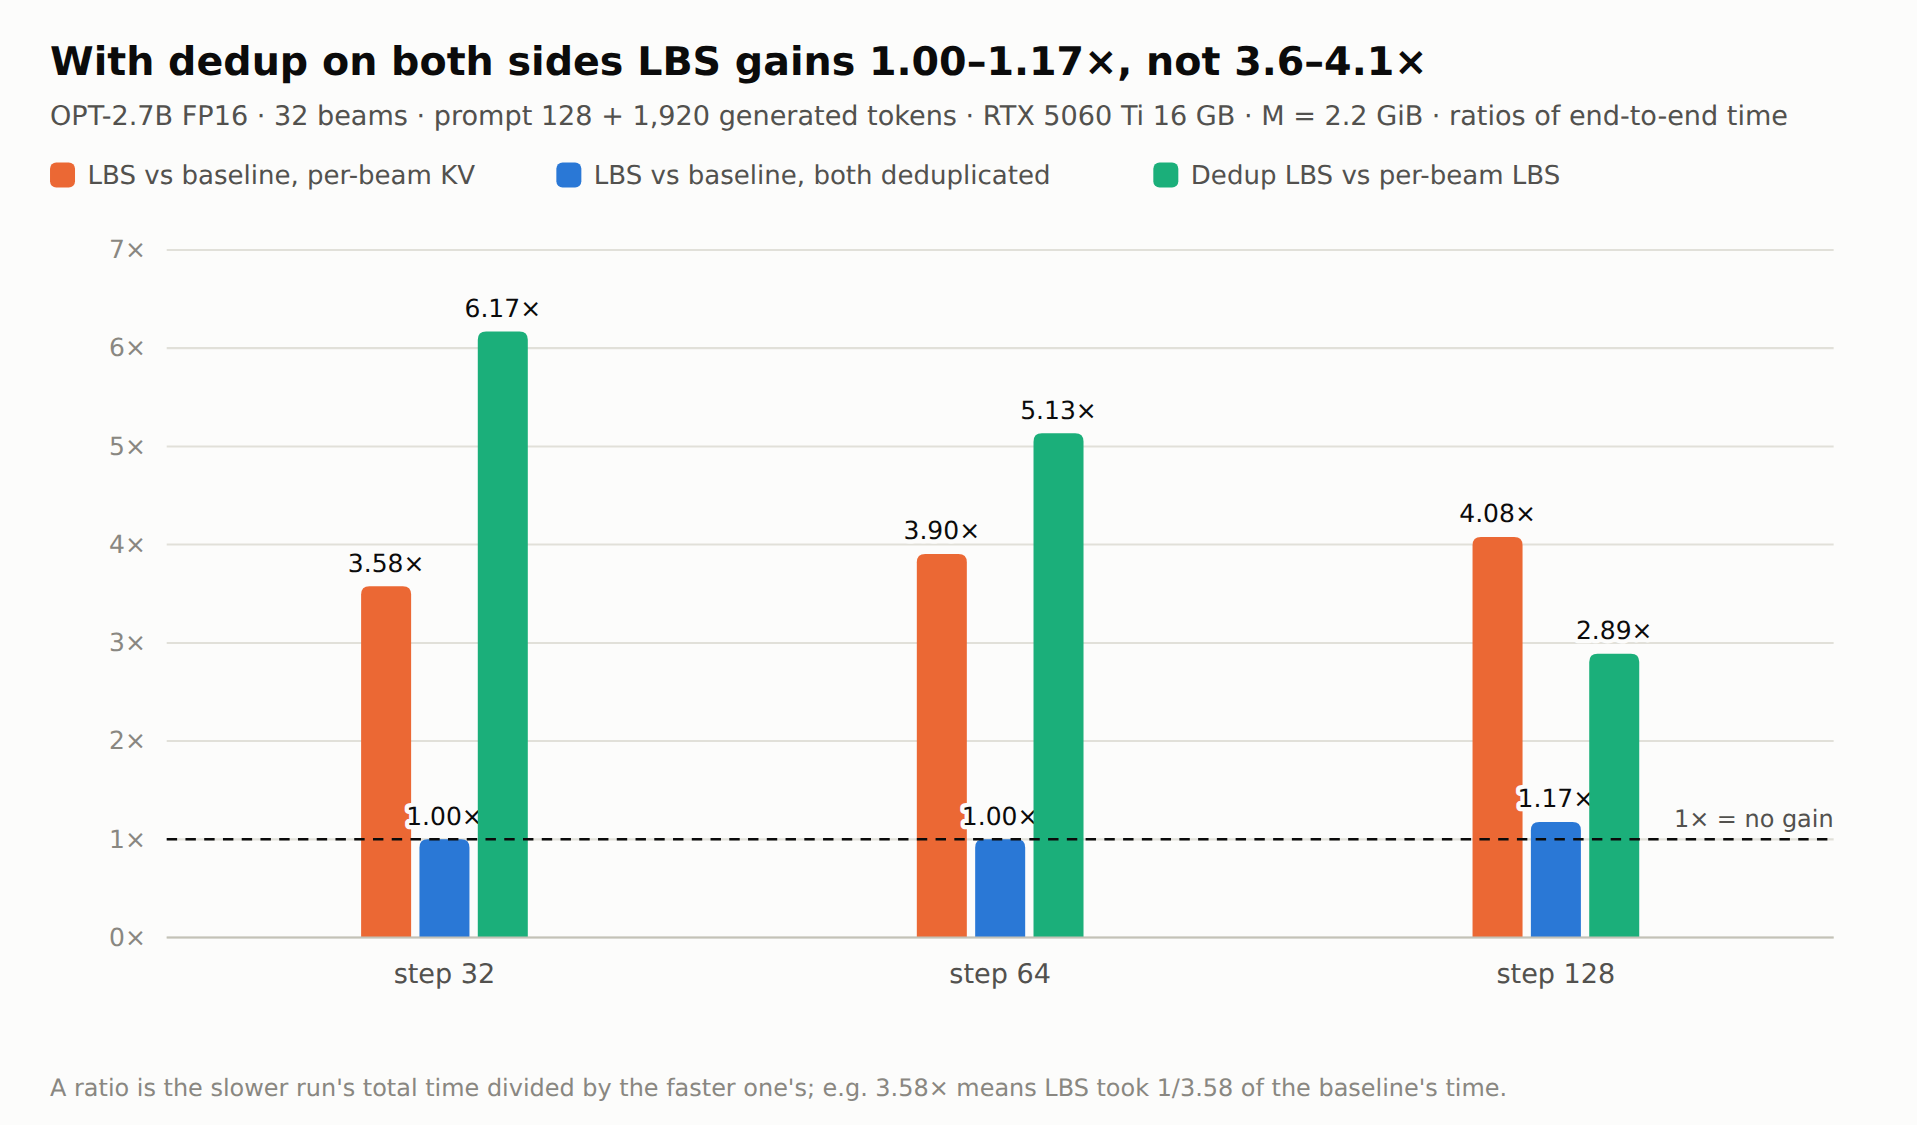
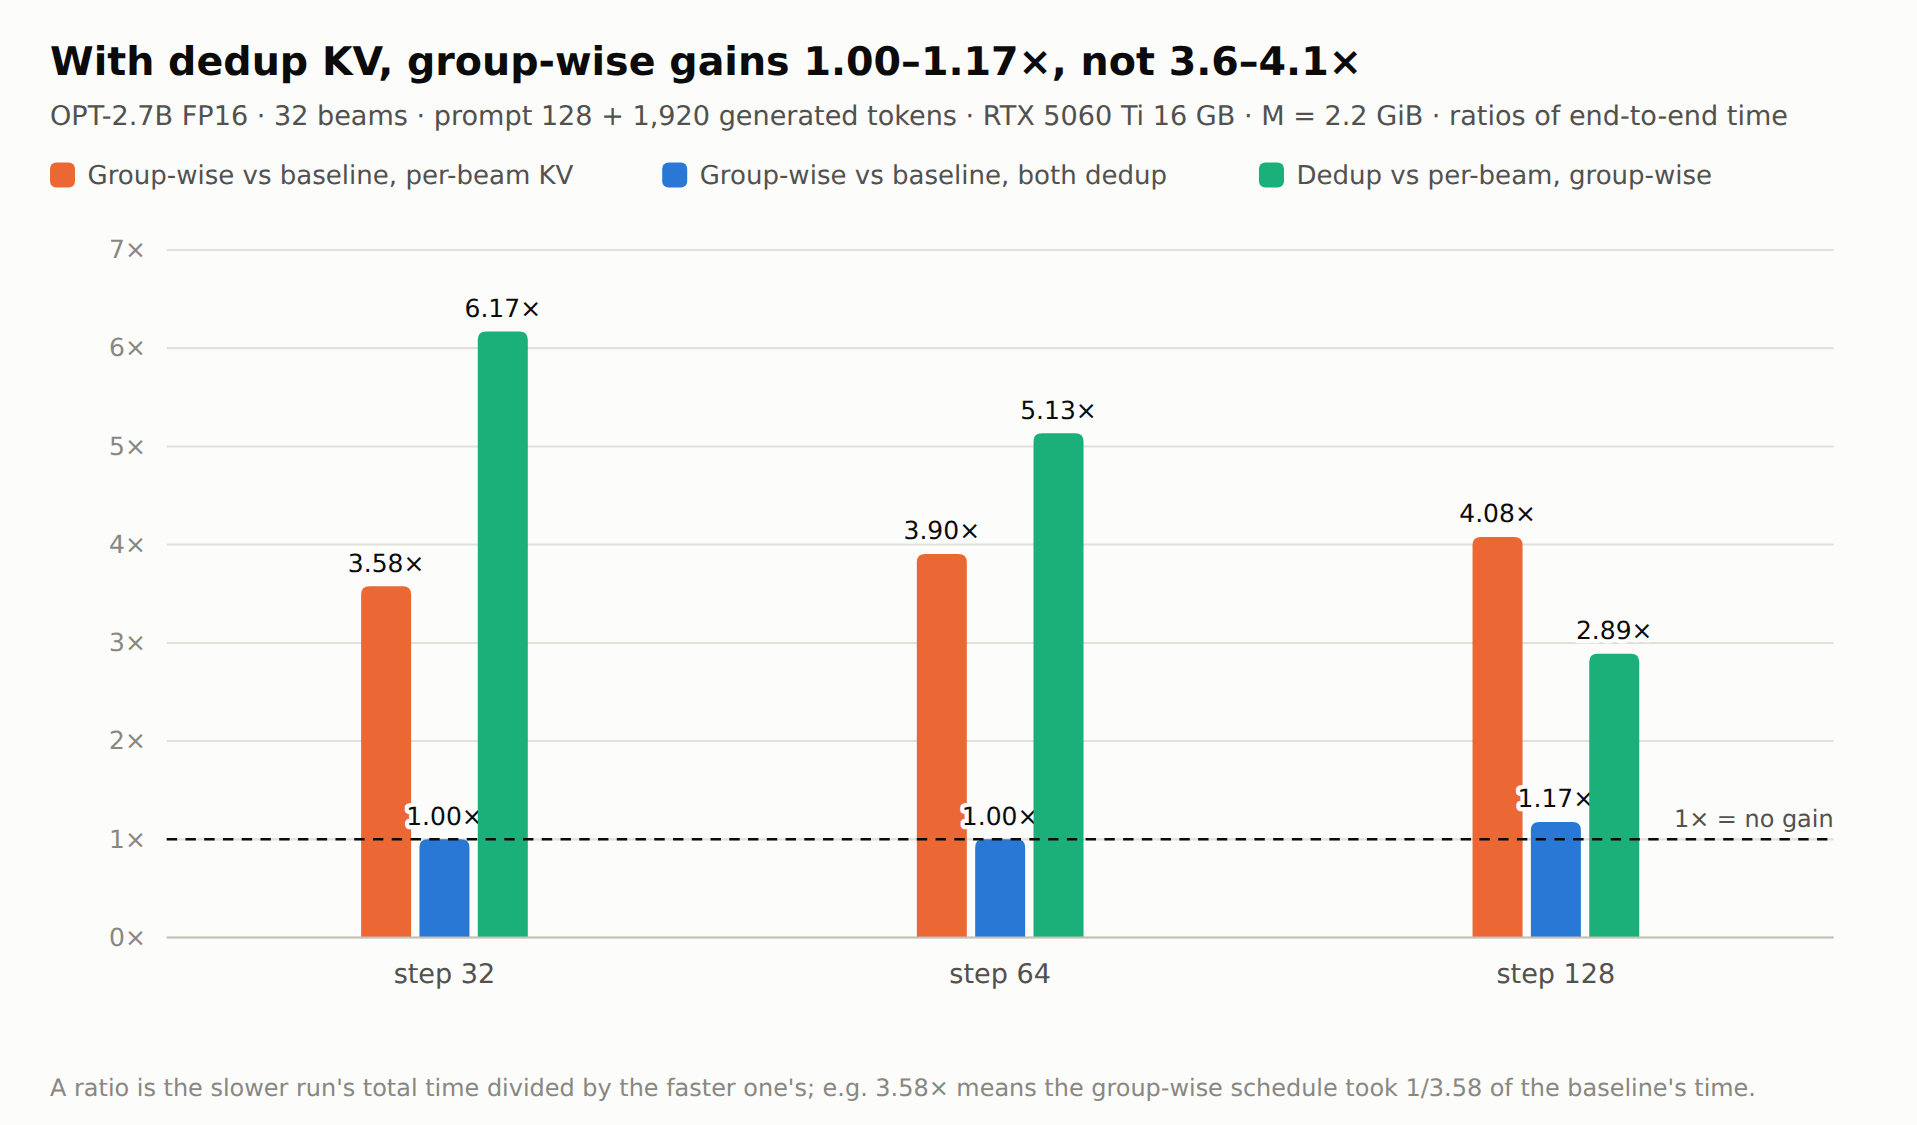
Label the compared schedule "Group-wise" in figures and tables; README fixes
Relabel the group-wise schedule from "LBS" to "Group-wise" in the figure
and table scripts. Regenerate fig3, fig4, fig5, fig7 and results/tables.md
with numbers unchanged, and shorten the fig4 and fig7 titles so they fit.
Mentions of the LBS paper itself (fig1 panel, Eq. 1-5 footnote) are kept.

README: say "both schedules" in the opening, define step length in Setup,
and update the note on the `lbs` mode name.

Changed region(s): [[0.0616, 0.1244, 0.8925, 0.1867], [0.1539, 0.0311, 0.7387, 0.0933], [0.554, 0.9333, 0.9233, 0.9956]]

diff --git a/scripts/make_figures.py b/scripts/make_figures.py
@@ -463,12 +463,12 @@ def fig_speedups():
     W, H = 920, 540
     s = SVG(W, H)
     s.header(
-        f"With dedup on both sides LBS gains {min(b):.2f}–{max(b):.2f}×, not {min(a):.1f}–{max(a):.1f}×",
+        f"With dedup KV, group-wise gains {min(b):.2f}–{max(b):.2f}×, not {min(a):.1f}–{max(a):.1f}×",
         f"{SUB_DEDUP} · M = {D.M_MAIN} GiB · ratios of end-to-end time",
         legend=[
-            (PERBEAM, "LBS vs baseline, per-beam KV", "box"),
-            (DEDUP, "LBS vs baseline, both deduplicated", "box"),
-            (C["aqua"], "Dedup LBS vs per-beam LBS", "box"),
+            (PERBEAM, "Group-wise vs baseline, per-beam KV", "box"),
+            (DEDUP, "Group-wise vs baseline, both dedup", "box"),
+            (C["aqua"], "Dedup vs per-beam, group-wise", "box"),
         ],
     )
     x0, x1, yb, yt = 80, W - 40, H - 90, 120
@@ -491,7 +491,7 @@ def fig_speedups():
     s.text(x1, sy(1) - 6, "1× = no gain", 11.5, C["ink2"], anchor="end")
     s.footnote(
         [
-            "A ratio is the slower run's total time divided by the faster one's; e.g. 3.58× means LBS took 1/3.58 of the baseline's time."
+            "A ratio is the slower run's total time divided by the faster one's; e.g. 3.58× means the group-wise schedule took 1/3.58 of the baseline's time."
         ]
     )
     s.save("fig4_speedups")
@@ -653,10 +653,10 @@ def fig_gqa():
     b256, l256 = g("baseline", 256), g("lbs", 256)
     W, H = 1100, 560
     s = SVG(W, H)
-    title = f"GQA: Qwen2.5-3B fits {fit_max} beams in 8 GiB without offloading"
+    title = f"GQA: Qwen2.5-3B fits {fit_max} beams in 8 GiB"
     if D.ok(b256) and D.ok(l256):
         title += (
-            f"; LBS pays off only at 256 ({b256['total_s'] / l256['total_s']:.2f}×)"
+            f"; group-wise pays off only at 256 ({b256['total_s'] / l256['total_s']:.2f}×)"
         )
     s.header(
         title,
@@ -664,7 +664,7 @@ def fig_gqa():
         legend=[
             (DEDUP, "Fits in M: all KV on the GPU", "box"),
             (PERBEAM, "Exceeds M: baseline (layer-wise offloading)", "box"),
-            (C["aqua"], "Exceeds M: LBS", "box"),
+            (C["aqua"], "Exceeds M: group-wise schedule", "box"),
         ],
     )
     # left: KV size by beam count
@@ -721,10 +721,11 @@ def fig_gqa():
         if k == 2 and D.ok(g("baseline", n)) and D.ok(g("lbs", n)):
             ratio = g("baseline", n)["total_s"] / g("lbs", n)["total_s"]
             top = sy2(max(g("baseline", n)["total_s"], g("lbs", n)["total_s"]))
+            s.text(cx, top - 44, "Group-wise", 12.5, C["ink"], weight="bold", anchor="middle")
             s.text(
                 cx,
                 top - 26,
-                f"LBS {ratio:.2f}×",
+                f"{ratio:.2f}×",
                 12.5,
                 C["ink"],
                 weight="bold",
@@ -741,7 +742,7 @@ def fig_gqa():
     s.footnote(
         [
             f"Qwen2.5-3B KV is {btok:,} bytes per token (2 KV heads × 128 × 36 layers); OPT-2.7B's is 327,680. For comparison, OPT-2.7B with 32 beams",
-            "needs 20 GiB of KV: per-beam baseline 517 s, per-beam LBS 170 s, deduplicated 45 s (M = 8 GiB). Different models: compare scale, not accuracy.",
+            "needs 20 GiB of KV: per-beam baseline 517 s, per-beam group-wise 170 s, deduplicated 45 s (M = 8 GiB). Different models: compare scale, not accuracy.",
         ]
     )
     s.save("fig7_gqa")

diff --git a/scripts/make_tables.py b/scripts/make_tables.py
@@ -63,11 +63,11 @@ o += [
 bw = D.h2d_gib_per_s()
 R1 = D.repro_runs()
 o += [
-    "## LBS reproduction (one KV copy per beam, OPT-2.7B, M = 8 GiB, step 32)",
+    "## Group-wise schedule vs Eq. 1–5 (one KV copy per beam, OPT-2.7B, M = 8 GiB, step 32)",
     "",
     f"Predicted transfer: the paper's Eq. 1–5. Predicted transfer time: predicted bytes ÷ {bw:.2f} GiB/s.",
     "",
-    "| Beams | KV at the end | Baseline: transfer predicted / measured (GiB) | LBS: predicted / measured (GiB) | Baseline: transfer time pred. / meas. (s) | LBS: pred. / meas. (s) | Baseline total (s) | LBS total (s) | LBS speedup |",
+    "| Beams | KV at the end | Baseline: transfer predicted / measured (GiB) | Group-wise: predicted / measured (GiB) | Baseline: transfer time pred. / meas. (s) | Group-wise: pred. / meas. (s) | Baseline total (s) | Group-wise total (s) | Group-wise speedup |",
     "|---|---|---|---|---|---|---|---|---|",
 ]
 for n, r in R1.items():
@@ -100,15 +100,15 @@ for T in D.STEPS:
     o += [
         f"### Step {T} ({1920 // T} steps)",
         "",
-        "| Method | M (GiB) | Transfer measured (GiB) | Transfer predicted (GiB) | Match | Transfer (s) | Compute (s) | Other (s) | Total (s) | KV on GPU, peak (GiB) | LBS groups, max |",
+        "| Method | M (GiB) | Transfer measured (GiB) | Transfer predicted (GiB) | Match | Transfer (s) | Compute (s) | Other (s) | Total (s) | KV on GPU, peak (GiB) | Groups, max (group-wise) |",
         "|---|---|---|---|---|---|---|---|---|---|---|",
     ]
     rows = [(st, mo, lab, D.M_MAIN) for st, mo, lab in D.METHODS]
     rows += [
         ("dedup", "baseline", "Baseline, dedup KV", D.M_CTRL),
-        ("dedup", "lbs", "LBS, dedup KV", D.M_CTRL),
+        ("dedup", "lbs", "Group-wise, dedup KV", D.M_CTRL),
         ("dedup", "baseline", "Baseline, dedup KV", D.M_SUPP),
-        ("dedup", "lbs", "LBS, dedup KV", D.M_SUPP),
+        ("dedup", "lbs", "Group-wise, dedup KV", D.M_SUPP),
     ]
     for st, mo, lab, M in rows:
         r = D.run("dedup", st, mo, D.N_DEDUP, T, M)
@@ -132,7 +132,7 @@ sp = D.speedups(R)
 o += [
     "### Speedups (ratios of total time, M = 2.2 GiB)",
     "",
-    "| Step | LBS vs baseline, per-beam KV | LBS vs baseline, both dedup | Dedup vs per-beam, baseline | Dedup vs per-beam, LBS |",
+    "| Step | Group-wise vs baseline, per-beam KV | Group-wise vs baseline, both dedup | Dedup vs per-beam, baseline | Dedup vs per-beam, group-wise |",
     "|---|---|---|---|---|",
 ]
 for T in D.STEPS:
@@ -142,7 +142,7 @@ for T in D.STEPS:
     )
 o += [
     "",
-    "LBS vs baseline with dedup KV at M = 1 GiB (supplementary): "
+    "Group-wise vs baseline with dedup KV at M = 1 GiB (supplementary): "
     + ", ".join(
         f"step {T} {x_(D.ratio(D.run('dedup', 'dedup', 'baseline', 32, T, 1), D.run('dedup', 'dedup', 'lbs', 32, T, 1)))}"
         for T in D.STEPS

diff --git a/scripts/_data.py b/scripts/_data.py
@@ -12,9 +12,9 @@ M_MAIN, M_CTRL, M_SUPP = 2.2, 8, 1
 PROMPT, GEN, N_DEDUP = 128, 1920, 32
 METHODS = [  # (store, mode, label)
     ("percopy", "baseline", "Baseline, per-beam KV"),
-    ("percopy", "lbs", "LBS, per-beam KV"),
+    ("percopy", "lbs", "Group-wise, per-beam KV"),
     ("dedup", "baseline", "Baseline, dedup KV"),
-    ("dedup", "lbs", "LBS, dedup KV"),
+    ("dedup", "lbs", "Group-wise, dedup KV"),
 ]
 GPU = "RTX 5060 Ti 16 GB"
 

diff --git a/results/tables.md b/results/tables.md
@@ -14,11 +14,11 @@ Generated by `scripts/make_tables.py` from `results/**/*.json`. GiB = 2^30 bytes
 | FP16 matmul (131,072 × 2,560) × (2,560 × 2,560) | 35.0 ms (49.1 TFLOPS) |
 | Host memory | 31.1 GiB; 20 GiB could be pinned |
 
-## LBS reproduction (one KV copy per beam, OPT-2.7B, M = 8 GiB, step 32)
+## Group-wise schedule vs Eq. 1–5 (one KV copy per beam, OPT-2.7B, M = 8 GiB, step 32)
 
 Predicted transfer: the paper's Eq. 1–5. Predicted transfer time: predicted bytes ÷ 18.58 GiB/s.
 
-| Beams | KV at the end | Baseline: transfer predicted / measured (GiB) | LBS: predicted / measured (GiB) | Baseline: transfer time pred. / meas. (s) | LBS: pred. / meas. (s) | Baseline total (s) | LBS total (s) | LBS speedup |
+| Beams | KV at the end | Baseline: transfer predicted / measured (GiB) | Group-wise: predicted / measured (GiB) | Baseline: transfer time pred. / meas. (s) | Group-wise: pred. / meas. (s) | Baseline total (s) | Group-wise total (s) | Group-wise speedup |
 |---|---|---|---|---|---|---|---|---|
 | 8 | 5.00 GiB | 0.0 / 0.0 | 0.0 / 0.0 | 0.0 / 0.0 | 0.0 / 0.0 | 46.8 | 46.8 | 1.00× |
 | 16 | 10.00 GiB | 468.2 / 468.2 | 115.8 / 115.8 | 25.2 / 25.0 | 6.2 / 6.2 | 90.1 | 80.7 | 1.12× |
@@ -31,54 +31,54 @@ Each step length has one reference run (per-beam baseline at M = 2.2 GiB, sampli
 
 ### Step 32 (60 steps)
 
-| Method | M (GiB) | Transfer measured (GiB) | Transfer predicted (GiB) | Match | Transfer (s) | Compute (s) | Other (s) | Total (s) | KV on GPU, peak (GiB) | LBS groups, max |
+| Method | M (GiB) | Transfer measured (GiB) | Transfer predicted (GiB) | Match | Transfer (s) | Compute (s) | Other (s) | Total (s) | KV on GPU, peak (GiB) | Groups, max (group-wise) |
 |---|---|---|---|---|---|---|---|---|---|---|
 | Baseline, per-beam KV | 2.2 | 16,544.4 | 16,544.4 | exact | 882.2 | 101.5 | 14.2 | 997.8 | 2.75 | — |
-| LBS, per-beam KV | 2.2 | 623.4 | 623.4 | exact | 33.4 | 225.4 | 20.2 | 279.0 | 2.20 | 11 |
+| Group-wise, per-beam KV | 2.2 | 623.4 | 623.4 | exact | 33.4 | 225.4 | 20.2 | 279.0 | 2.20 | 11 |
 | Baseline, dedup KV | 2.2 | 0.0 | 0.0 | exact | 0.0 | 44.5 | 0.6 | 45.2 | 1.58 | — |
-| LBS, dedup KV | 2.2 | 0.0 | 0.0 | exact | 0.0 | 44.6 | 0.6 | 45.2 | 1.58 | 1 |
+| Group-wise, dedup KV | 2.2 | 0.0 | 0.0 | exact | 0.0 | 44.6 | 0.6 | 45.2 | 1.58 | 1 |
 | Baseline, dedup KV | 8 | 0.0 | 0.0 | exact | 0.0 | 44.5 | 0.6 | 45.2 | 1.58 | — |
-| LBS, dedup KV | 8 | 0.0 | 0.0 | exact | 0.0 | 44.6 | 0.6 | 45.2 | 1.58 | 1 |
+| Group-wise, dedup KV | 8 | 0.0 | 0.0 | exact | 0.0 | 44.6 | 0.6 | 45.2 | 1.58 | 1 |
 | Baseline, dedup KV | 1 | 278.9 | 278.9 | exact | 15.2 | 44.9 | 3.7 | 63.9 | 1.05 | — |
-| LBS, dedup KV | 1 | 29.0 | 29.0 | exact | 1.6 | 69.1 | 2.6 | 73.2 | 1.00 | 3 |
+| Group-wise, dedup KV | 1 | 29.0 | 29.0 | exact | 1.6 | 69.1 | 2.6 | 73.2 | 1.00 | 3 |
 
 ### Step 64 (30 steps)
 
-| Method | M (GiB) | Transfer measured (GiB) | Transfer predicted (GiB) | Match | Transfer (s) | Compute (s) | Other (s) | Total (s) | KV on GPU, peak (GiB) | LBS groups, max |
+| Method | M (GiB) | Transfer measured (GiB) | Transfer predicted (GiB) | Match | Transfer (s) | Compute (s) | Other (s) | Total (s) | KV on GPU, peak (GiB) | Groups, max (group-wise) |
 |---|---|---|---|---|---|---|---|---|---|---|
 | Baseline, per-beam KV | 2.2 | 16,544.4 | 16,544.4 | exact | 881.8 | 101.4 | 8.3 | 991.5 | 2.75 | — |
-| LBS, per-beam KV | 2.2 | 308.1 | 308.1 | exact | 16.5 | 226.7 | 10.7 | 253.9 | 2.19 | 11 |
+| Group-wise, per-beam KV | 2.2 | 308.1 | 308.1 | exact | 16.5 | 226.7 | 10.7 | 253.9 | 2.19 | 11 |
 | Baseline, dedup KV | 2.2 | 0.0 | 0.0 | exact | 0.0 | 49.2 | 0.3 | 49.5 | 2.17 | — |
-| LBS, dedup KV | 2.2 | 0.0 | 0.0 | exact | 0.0 | 49.2 | 0.3 | 49.5 | 2.17 | 1 |
+| Group-wise, dedup KV | 2.2 | 0.0 | 0.0 | exact | 0.0 | 49.2 | 0.3 | 49.5 | 2.17 | 1 |
 | Baseline, dedup KV | 8 | 0.0 | 0.0 | exact | 0.0 | 49.2 | 0.3 | 49.5 | 2.17 | — |
-| LBS, dedup KV | 8 | 0.0 | 0.0 | exact | 0.0 | 49.2 | 0.3 | 49.5 | 2.17 | 1 |
+| Group-wise, dedup KV | 8 | 0.0 | 0.0 | exact | 0.0 | 49.2 | 0.3 | 49.5 | 2.17 | 1 |
 | Baseline, dedup KV | 1 | 848.6 | 848.6 | exact | 45.5 | 49.8 | 4.1 | 99.4 | 1.07 | — |
-| LBS, dedup KV | 1 | 25.1 | 25.1 | exact | 1.3 | 93.1 | 2.6 | 97.1 | 1.00 | 4 |
+| Group-wise, dedup KV | 1 | 25.1 | 25.1 | exact | 1.3 | 93.1 | 2.6 | 97.1 | 1.00 | 4 |
 
 ### Step 128 (15 steps)
 
-| Method | M (GiB) | Transfer measured (GiB) | Transfer predicted (GiB) | Match | Transfer (s) | Compute (s) | Other (s) | Total (s) | KV on GPU, peak (GiB) | LBS groups, max |
+| Method | M (GiB) | Transfer measured (GiB) | Transfer predicted (GiB) | Match | Transfer (s) | Compute (s) | Other (s) | Total (s) | KV on GPU, peak (GiB) | Groups, max (group-wise) |
 |---|---|---|---|---|---|---|---|---|---|---|
 | Baseline, per-beam KV | 2.2 | 16,544.4 | 16,544.4 | exact | 881.8 | 101.3 | 5.4 | 988.5 | 2.75 | — |
-| LBS, per-beam KV | 2.2 | 150.0 | 150.0 | exact | 8.0 | 228.5 | 5.9 | 242.5 | 2.19 | 11 |
+| Group-wise, per-beam KV | 2.2 | 150.0 | 150.0 | exact | 8.0 | 228.5 | 5.9 | 242.5 | 2.19 | 11 |
 | Baseline, dedup KV | 2.2 | 579.0 | 579.0 | exact | 30.9 | 64.1 | 3.5 | 98.6 | 2.31 | — |
-| LBS, dedup KV | 2.2 | 20.3 | 20.3 | exact | 1.1 | 80.5 | 2.4 | 83.9 | 2.19 | 2 |
+| Group-wise, dedup KV | 2.2 | 20.3 | 20.3 | exact | 1.1 | 80.5 | 2.4 | 83.9 | 2.19 | 2 |
 | Baseline, dedup KV | 8 | 0.0 | 0.0 | exact | 0.0 | 64.0 | 0.2 | 64.2 | 3.40 | — |
-| LBS, dedup KV | 8 | 0.0 | 0.0 | exact | 0.0 | 64.0 | 0.2 | 64.2 | 3.40 | 1 |
+| Group-wise, dedup KV | 8 | 0.0 | 0.0 | exact | 0.0 | 64.0 | 0.2 | 64.2 | 3.40 | 1 |
 | Baseline, dedup KV | 1 | 2,479.7 | 2,479.7 | exact | 132.7 | 64.6 | 3.8 | 201.1 | 1.10 | — |
-| LBS, dedup KV | 1 | 23.0 | 23.0 | exact | 1.2 | 152.3 | 2.6 | 156.1 | 0.98 | 7 |
+| Group-wise, dedup KV | 1 | 23.0 | 23.0 | exact | 1.2 | 152.3 | 2.6 | 156.1 | 0.98 | 7 |
 
 "KV on GPU, peak" for a baseline includes the scratch buffer for the layer being computed, which is outside M (so it can exceed M slightly).
 
 ### Speedups (ratios of total time, M = 2.2 GiB)
 
-| Step | LBS vs baseline, per-beam KV | LBS vs baseline, both dedup | Dedup vs per-beam, baseline | Dedup vs per-beam, LBS |
+| Step | Group-wise vs baseline, per-beam KV | Group-wise vs baseline, both dedup | Dedup vs per-beam, baseline | Dedup vs per-beam, group-wise |
 |---|---|---|---|---|
 | 32 | 3.58× | 1.00× | 22.08× | 6.17× |
 | 64 | 3.90× | 1.00× | 20.02× | 5.13× |
 | 128 | 4.08× | 1.17× | 10.03× | 2.89× |
 
-LBS vs baseline with dedup KV at M = 1 GiB (supplementary): step 32 0.87×, step 64 1.02×, step 128 1.29×.
+Group-wise vs baseline with dedup KV at M = 1 GiB (supplementary): step 32 0.87×, step 64 1.02×, step 128 1.29×.
 
 ### KV size: one copy per beam vs deduplicated
 
@@ -94,27 +94,27 @@ Under FP16, a different batch size or KV layout changes rounding, so a run that 
 
 | Step | Method | M | Max per-token log-prob difference | Own sample differs / samples | Steps with a different pruning choice |
 |---|---|---|---|---|---|
-| 32 | LBS, per-beam KV | 2.2 | 0.1549 | 88 / 61,440 | 1 |
+| 32 | Group-wise, per-beam KV | 2.2 | 0.1549 | 88 / 61,440 | 1 |
 | 32 | Baseline, dedup KV | 2.2 | 0.0714 | 84 / 61,440 | 2 |
 | 32 | Baseline, dedup KV | 8 | 0.0714 | 84 / 61,440 | 2 |
 | 32 | Baseline, dedup KV | 1 | 0.0714 | 84 / 61,440 | 2 |
-| 32 | LBS, dedup KV | 2.2 | 0.0714 | 84 / 61,440 | 2 |
-| 32 | LBS, dedup KV | 8 | 0.0714 | 84 / 61,440 | 2 |
-| 32 | LBS, dedup KV | 1 | 0.0467 | 88 / 61,440 | 2 |
-| 64 | LBS, per-beam KV | 2.2 | 0.0586 | 45 / 61,440 | 0 |
+| 32 | Group-wise, dedup KV | 2.2 | 0.0714 | 84 / 61,440 | 2 |
+| 32 | Group-wise, dedup KV | 8 | 0.0714 | 84 / 61,440 | 2 |
+| 32 | Group-wise, dedup KV | 1 | 0.0467 | 88 / 61,440 | 2 |
+| 64 | Group-wise, per-beam KV | 2.2 | 0.0586 | 45 / 61,440 | 0 |
 | 64 | Baseline, dedup KV | 2.2 | 0.0972 | 49 / 61,440 | 0 |
 | 64 | Baseline, dedup KV | 8 | 0.0972 | 49 / 61,440 | 0 |
 | 64 | Baseline, dedup KV | 1 | 0.0972 | 49 / 61,440 | 0 |
-| 64 | LBS, dedup KV | 2.2 | 0.0972 | 49 / 61,440 | 0 |
-| 64 | LBS, dedup KV | 8 | 0.0972 | 49 / 61,440 | 0 |
-| 64 | LBS, dedup KV | 1 | 0.0944 | 52 / 61,440 | 0 |
-| 128 | LBS, per-beam KV | 2.2 | 0.0443 | 104 / 61,440 | 0 |
+| 64 | Group-wise, dedup KV | 2.2 | 0.0972 | 49 / 61,440 | 0 |
+| 64 | Group-wise, dedup KV | 8 | 0.0972 | 49 / 61,440 | 0 |
+| 64 | Group-wise, dedup KV | 1 | 0.0944 | 52 / 61,440 | 0 |
+| 128 | Group-wise, per-beam KV | 2.2 | 0.0443 | 104 / 61,440 | 0 |
 | 128 | Baseline, dedup KV | 2.2 | 0.0576 | 94 / 61,440 | 0 |
 | 128 | Baseline, dedup KV | 8 | 0.0576 | 94 / 61,440 | 0 |
 | 128 | Baseline, dedup KV | 1 | 0.0576 | 94 / 61,440 | 0 |
-| 128 | LBS, dedup KV | 2.2 | 0.0757 | 102 / 61,440 | 0 |
-| 128 | LBS, dedup KV | 8 | 0.0576 | 94 / 61,440 | 0 |
-| 128 | LBS, dedup KV | 1 | 0.0392 | 109 / 61,440 | 0 |
+| 128 | Group-wise, dedup KV | 2.2 | 0.0757 | 102 / 61,440 | 0 |
+| 128 | Group-wise, dedup KV | 8 | 0.0576 | 94 / 61,440 | 0 |
+| 128 | Group-wise, dedup KV | 1 | 0.0392 | 109 / 61,440 | 0 |
 
 ## GQA comparison (Qwen2.5-3B, one KV copy per beam, M = 8 GiB, step 32)
 

diff --git a/README.md b/README.md
@@ -1,12 +1,12 @@
 # DedupBeam
 
-DedupBeam stores the KV cache of shared beam prefixes once, on the host and on the GPU, instead of once per beam. On OPT-2.7B with 32 beams it cuts peak KV from 20 GiB to 1.6–3.4 GiB, and at the same 2.2 GiB GPU budget it runs 2.9–6.2× faster than group-wise KV-offloading schedules (as in LBS, MLSys 2026) and 11.8–22.1× faster than layer-wise KV offloading. It uses only standard PyTorch ops, with no custom kernel. Once both sides store shared KV once, group-wise scheduling adds only 1.00–1.17×.
+DedupBeam stores the KV cache of shared beam prefixes once, on the host and on the GPU, instead of once per beam. On OPT-2.7B with 32 beams it cuts peak KV from 20 GiB to 1.6–3.4 GiB, and at the same 2.2 GiB GPU budget it runs 2.9–6.2× faster than group-wise KV-offloading schedules (as in LBS, MLSys 2026) and 11.8–22.1× faster than layer-wise KV offloading. It uses only standard PyTorch ops, with no custom kernel. Once both schedules store shared KV once, group-wise scheduling adds only 1.00–1.17×.
 
 ![One GPU copy per shared segment instead of one per beam](figures/fig1_mechanism.png)
 
 ## Key results
 
-Setup: OPT-2.7B in FP16, 32 beams, beam width 2 (half of the beams survive each step), prompt of 128 tokens, 1,920 generated tokens, cumulative log-probability scoring, Gumbel-max sampling with seed 0, one RTX 5060 Ti 16 GB (PCIe 5.0 x8, 18.6 GiB/s host→GPU). M is the GPU memory reserved for KV. M = 2.2 GiB keeps roughly the ratio between total KV and M of Fig. 7 in the LBS paper (7 GB reserved for KV; 64 beams of OPT-6.7B at 2,048 tokens hold 64 GiB of per-beam KV by our count, about 9×; here 20 GiB vs 2.2 GiB).
+Setup: OPT-2.7B in FP16, 32 beams, beam width 2 (half of the beams survive each step), prompt of 128 tokens, 1,920 generated tokens, cumulative log-probability scoring, Gumbel-max sampling with seed 0, one RTX 5060 Ti 16 GB (PCIe 5.0 x8, 18.6 GiB/s host→GPU). Step length is the number of tokens each beam generates per beam-search step. M is the GPU memory reserved for KV. M = 2.2 GiB keeps roughly the ratio between total KV and M of Fig. 7 in the LBS paper (7 GB reserved for KV; 64 beams of OPT-6.7B at 2,048 tokens hold 64 GiB of per-beam KV by our count, about 9×; here 20 GiB vs 2.2 GiB).
 
 Two schedules are compared, each with one KV copy per beam and with DedupBeam's deduplicated KV: layer-wise KV offloading (the baseline) and a group-wise KV-offloading schedule (reordering as in LBS, MLSys 2026; see [Baselines](#baselines)). The ratios in the opening paragraph compare the "Group-wise, dedup KV" column with "Group-wise, per-beam KV" (2.9–6.2×) and with "Baseline, per-beam KV" (11.8–22.1×); 1.00–1.17× is "Group-wise vs baseline, both dedup".
 
@@ -44,7 +44,7 @@ In both designs the GPU still holds one copy of the shared KV per beam. Footnote
 
 ## Baselines
 
-The group-wise schedule follows the reordering in LBS and does not include LBS's prefix-aware grouping or prefetching. Both baselines are implemented here so that they run with the same model, sampling, scoring and GPU memory budget as DedupBeam. In the code, result files, tables and figures the group-wise schedule is the mode `lbs` and is labeled "LBS".
+The group-wise schedule follows the reordering in LBS and does not include LBS's prefix-aware grouping or prefetching. Both baselines are implemented here so that they run with the same model, sampling, scoring and GPU memory budget as DedupBeam. In the code and in result file names the group-wise schedule is the mode `lbs`.
 
 - **Per-beam engine** (`dedupbeam/perbeam.py`): step-wise beam search with one KV copy per beam, in three modes: all KV on the GPU, the layer-wise offloading baseline, and the group-wise schedule (reordering only; no prefix grouping, no prefetching). Its transfer volume matches the LBS paper's model (Eq. 1–5) to the byte.
 - **Check against the LBS paper's model** (per-beam KV, M = 8 GiB, step 32): 8 / 16 / 24 / 32 beams give group-wise speedups of 1.00× / 1.12× / 2.22× / 3.05×, and the transfer volumes (0 / 468.2 / 3,510.9 / 7,635.7 GiB for the baseline, 0 / 115.8 / 341.0 / 536.2 GiB for the group-wise schedule) match Eq. 1–5 exactly. LBS reports up to 6.85× with OPT-2.7B (its §5.5); its method also includes prefix-aware grouping and prefetching, and only reordering is implemented here.
